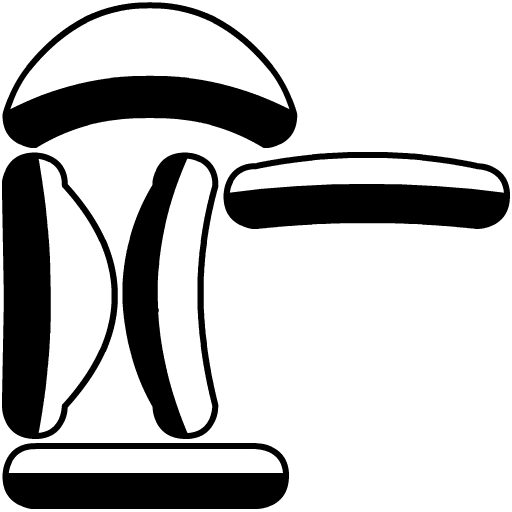
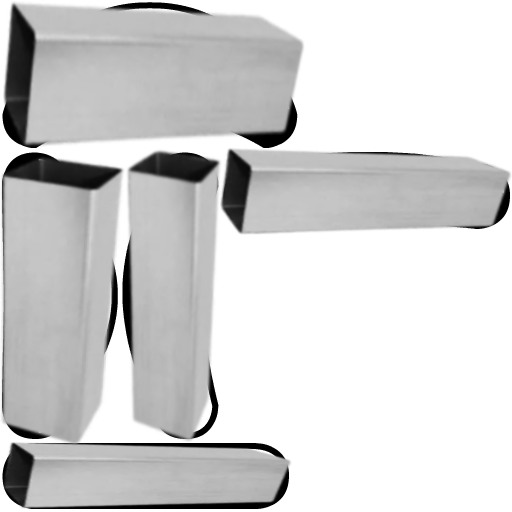
Modified/retextured g-1

diff --git a/a/g-1/bundle.js b/a/g-1/bundle.js
@@ -444,7 +444,7 @@
     }
     t.exports = r
 }, function(t, e) {
[2 lines of base64/hex data omitted]
 }, function(t, e, n) {
     t.exports = n.p + "images/93ff3fc5d168e31f731739824e0659b3-SHOP_UI0005.png"
 }, function(t) {
@@ -1712,8 +1712,8 @@
     t.exports = n.p + "images/fac3f46ae48d845f47e31b60b8ea3127-CHAR_Plant_Miniature.png"
 }, function(t, e, n) {
     t.exports = n.p + "images/27f62cb7fcc15256d379f7e940d7fc35-titlepow2.png"
-}, function(t, e) {
[1 lines of base64/hex data omitted]
+}, function(t, e, n) {
[1 lines of base64/hex data omitted]
 }, function(t, e, n) {
     t.exports = n.p + "images/43373af2c85cc40390455124c8916b67-BumperLarge.png"
 }, function(t) {
@@ -10899,6 +10899,7 @@
         throw new TypeError("Invalid attempt to spread non-iterable instance")
     }
 }, function(t, e, n) {
+    console.log("level 000: ", n(166));
     var r = {
         "./LEVEL000.json": 166,
         "./LEVEL001.json": 167,
